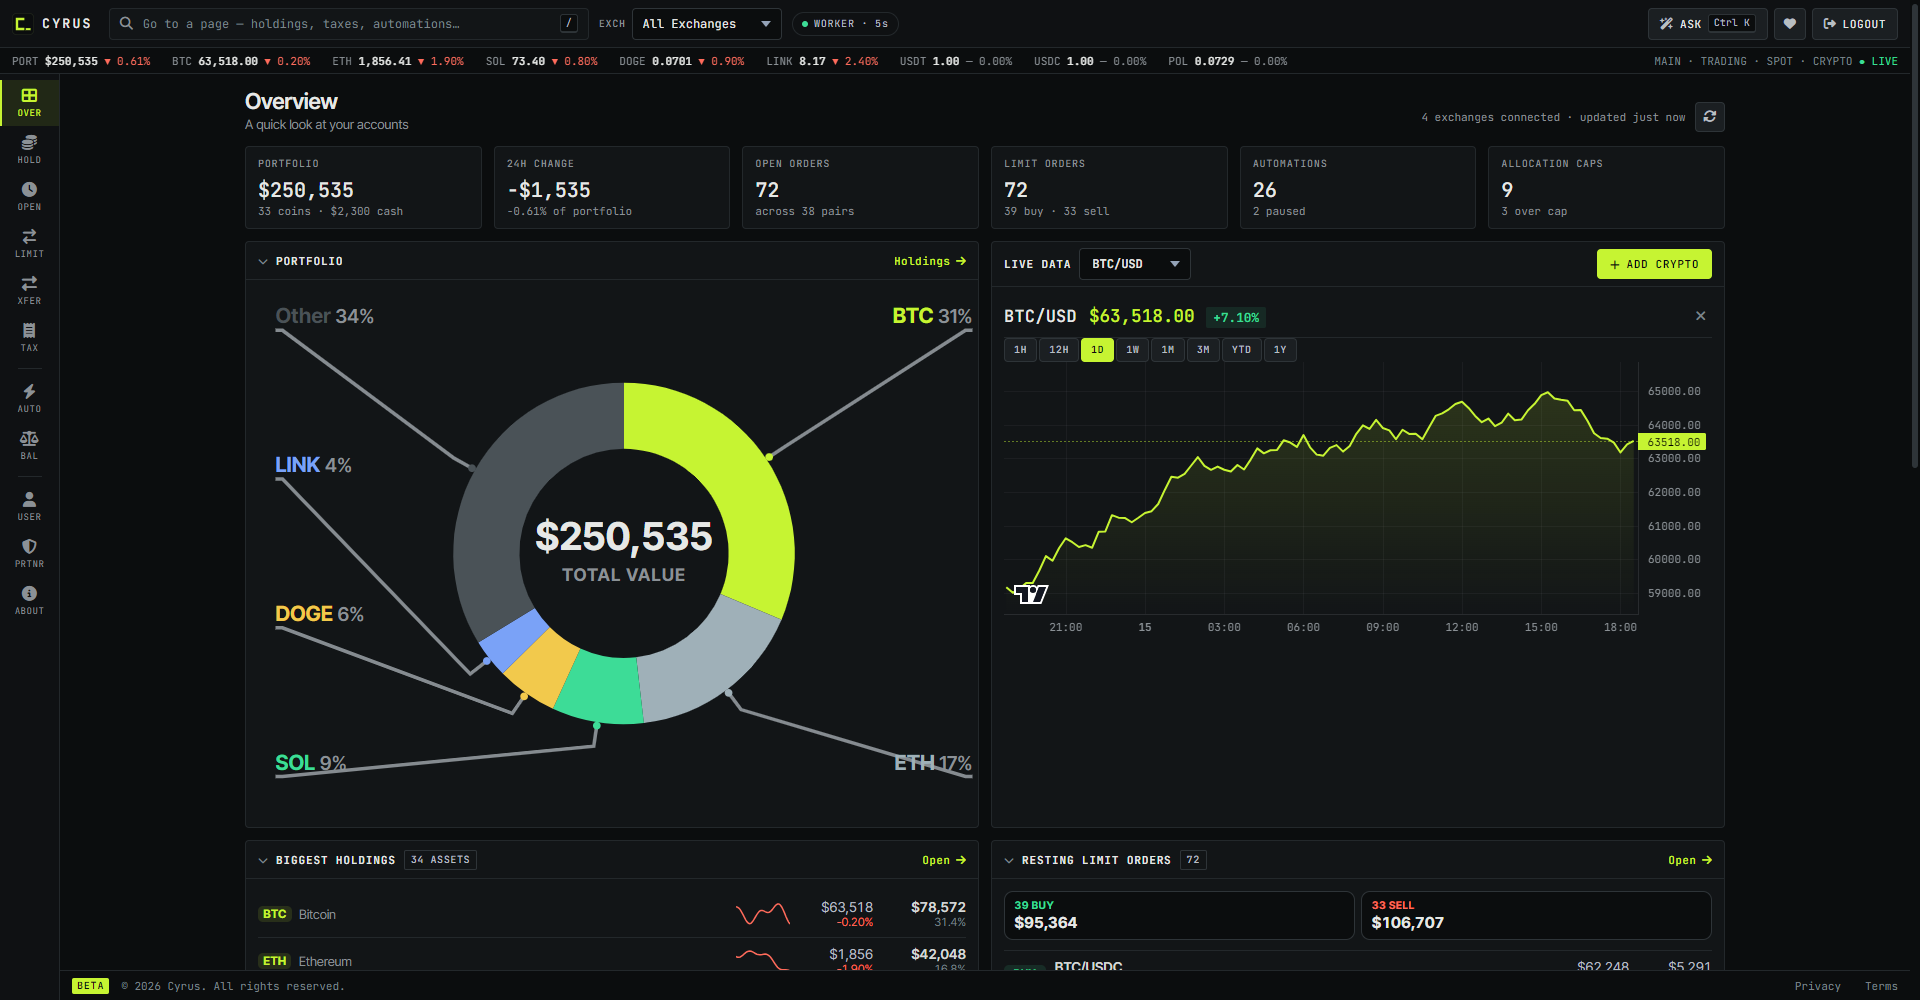
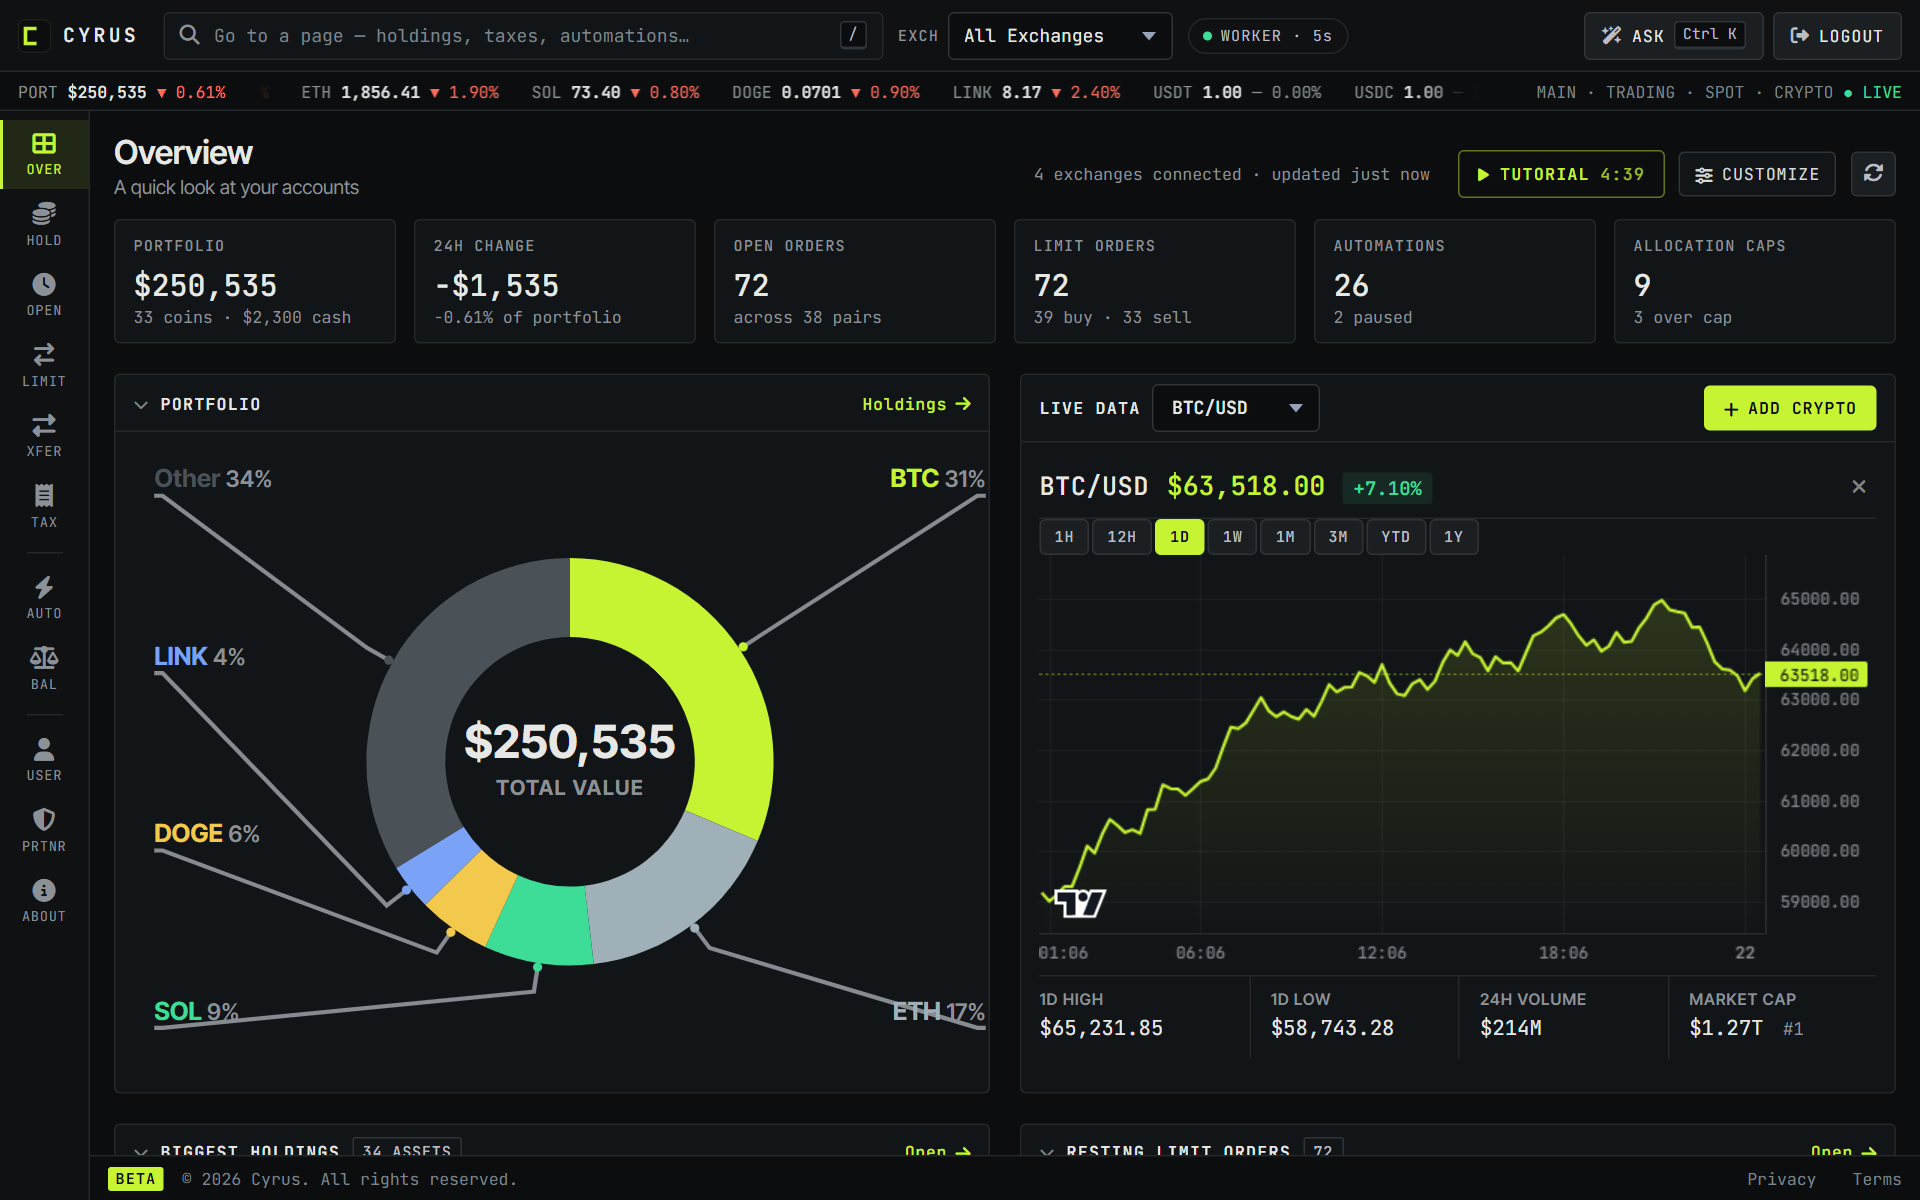
Finish the v1.5.0 page: 9 exchanges, flow-map Open Orders, Live Data charts, encryption copy
New Overview and Open Orders screenshots from demo mode; the stats bar now
counts 9 exchanges; features, gallery and tech stack describe the encrypted
database, the zoomable flow maps and Live Data's any-pair charts and stats.

diff --git a/index.html b/index.html
@@ -2055,7 +2055,7 @@
 <div class="stats-bar">
   <div class="stats-bar-inner">
     <div class="stat-item">
-      <span class="stat-value">5</span>
+      <span class="stat-value">9</span>
       <span class="stat-label">Exchanges</span>
     </div>
     <div class="stat-item">
@@ -2094,7 +2094,7 @@
   <div class="showcase-heading">
     <div class="section-label reveal">A Look Inside</div>
     <h2 class="section-title reveal">Your whole portfolio, at a glance.</h2>
-    <p class="section-desc reveal">One unified dashboard for balances, open orders, live prices, and the automations running quietly in the background — across every connected exchange. Resting limit orders get their own card, split buy against sell, so you can see what you have working before you drill in.</p>
+    <p class="section-desc reveal">One unified dashboard for balances, open orders, live prices, and the automations running quietly in the background — across every connected exchange. Chart any Kraken pair, from BTC/USD to XRP/CAD, with the range's high and low, 24-hour volume and market cap right underneath. A ticker along the top scrolls through every coin you hold, and resting limit orders get their own card, split buy against sell.</p>
   </div>
 
   <div class="app-frame reveal">
@@ -2104,7 +2104,7 @@
       <span class="app-frame-dot app-frame-dot--g"></span>
       <span class="app-frame-label">Cyrus — Overview</span>
     </div>
-    <img src="shot-overview.png" alt="Cyrus overview dashboard: tiles for portfolio value, 24h change, open orders, limit orders, automations and allocation caps, above a portfolio doughnut, a live BTC/USD chart, biggest holdings with seven-day trend lines, and a resting limit orders card split into buys and sells" loading="lazy">
+    <img src="shot-overview.png" alt="Cyrus overview dashboard: tiles for portfolio value, 24h change, open orders, limit orders, automations and allocation caps, above a portfolio doughnut, and a live BTC/USD chart with the day's high, low, 24-hour volume and market cap underneath, above the biggest holdings and resting limit orders cards; a ticker of every holding scrolls along the top" loading="lazy">
   </div>
 </section>
 
@@ -2125,7 +2125,7 @@
     <div class="feature-card">
       <span class="feature-icon">📊</span>
       <div class="feature-title">Real-Time Order Monitoring</div>
-      <p class="feature-desc">Watch your open orders across all connected exchanges with automatic refresh in the background. No browser tabs required.</p>
+      <p class="feature-desc">Watch your open orders across all connected exchanges with automatic refresh in the background, as a flow map of what each order spends and brings in, or as a table. Zoom and drag around the map; it remembers your zoom.</p>
     </div>
     <div class="feature-card">
       <span class="feature-icon">🔗</span>
@@ -2139,18 +2139,18 @@
     </div>
     <div class="feature-card">
       <span class="feature-icon">🗄</span>
-      <div class="feature-title">Fully Local Storage</div>
-      <p class="feature-desc">All data lives in a local SQLite database under your AppData folder. No cloud sync and no account. Your API keys never leave your machine. Only a few things go out at all: coin fundamentals from a public market-data API, which sends nothing but a ticker; and, if you switch the AI assistant on, your portfolio summary to Anthropic under your own key; and, if you opt in, an anonymous usage count (a random install ID, the app version, OS and country, nothing about you or your money). The assistant and the usage count are both off by default.</p>
+      <div class="feature-title">Local &amp; Encrypted</div>
+      <p class="feature-desc">All data lives in a database on your own computer, encrypted with AES-256 under a key unique to your install and locked to your Windows or macOS user account. No cloud sync and no account. Your API keys never leave your machine. Only a few things go out at all: coin fundamentals from a public market-data API, which sends nothing but a ticker; and, if you switch the AI assistant on, your portfolio summary to Anthropic under your own key; and, if you opt in, an anonymous usage count (a random install ID, the app version, OS and country, nothing about you or your money). The assistant and the usage count are both off by default.</p>
+    </div>
+    <div class="feature-card">
+      <span class="feature-icon">📈</span>
+      <div class="feature-title">Live Market Charts</div>
+      <p class="feature-desc">Chart any Kraken pair, priced in its own currency: BTC/USD, ETH/EUR, XRP/CAD, SOL/BTC. Under each chart sit the range's high and low, 24-hour volume and market cap, and a ticker along the top scrolls through every coin you hold.</p>
     </div>
     <div class="feature-card">
       <span class="feature-icon">⏱</span>
       <div class="feature-title">Cooldown Controls</div>
       <p class="feature-desc">Prevent runaway automation with configurable cooldown periods on every rule. Set the minimum time between executions and trade with confidence.</p>
-    </div>
-    <div class="feature-card">
-      <span class="feature-icon">🟢</span>
-      <div class="feature-title">Live Engine Status</div>
-      <p class="feature-desc">A heartbeat on the Automations page shows exactly when your rules were last checked — so you never have to wonder whether automation is actually running.</p>
     </div>
     <div class="feature-card">
       <span class="feature-icon">🖥</span>
@@ -2190,7 +2190,7 @@
     <div class="feature-card">
       <span class="feature-icon">📋</span>
       <div class="feature-title">Explainable Execution Log</div>
-      <p class="feature-desc">Every run is recorded — and so is every skip, with the reason. Below threshold, under an exchange minimum, cooling down: nothing happens without an explanation.</p>
+      <p class="feature-desc">Every run is recorded — and so is every skip, with the reason. Below threshold, under an exchange minimum, cooling down: nothing happens without an explanation. A heartbeat on the Automations page shows when your rules were last checked.</p>
     </div>
     <div class="feature-card">
       <span class="feature-icon">🎬</span>
@@ -2224,7 +2224,7 @@
       <div class="gallery-copy">
         <div class="gallery-eyebrow">Automation Rules</div>
         <h3 class="gallery-title">Set your rules once. Cyrus does the rest.</h3>
-        <p class="gallery-desc">Each rule pairs a trigger — an order filling, a balance crossing a threshold, a price target, or a coin outgrowing its share of your portfolio — with an action like converting an asset or withdrawing to a saved address. A flow map shows where your money goes, from the coins being sent through each rule to where they end up; click a rule to light up its path and edit or pause it. Every rule's status and last run sit in one place, with cooldowns to keep automation in check.</p>
+        <p class="gallery-desc">Each rule pairs a trigger — an order filling, a balance crossing a threshold, a price target, or a coin outgrowing its share of your portfolio — with an action like converting an asset or withdrawing to a saved address. A flow map shows where your money goes, from the coins being sent through each rule to where they end up; click a rule to light up its path and edit or pause it, and zoom or drag to move around a big one. Every rule's status and last run sit in one place, with cooldowns to keep automation in check.</p>
       </div>
     </div>
 
@@ -2271,12 +2271,12 @@
           <span class="app-frame-dot app-frame-dot--g"></span>
           <span class="app-frame-label">Cyrus — Open Orders</span>
         </div>
-        <img src="shot-orders.png" alt="Cyrus open orders table: 72 orders across four exchanges with pair, side, type, price, volume, filled amount and status" loading="lazy">
+        <img src="shot-orders.png" alt="Cyrus open orders flow map at 80% zoom: coins on the left feed sell orders into USD, which feeds buy orders for SOL, BTC, ETH and others, colour-coded buy and sell, with zoom controls and a Flow / Table switch" loading="lazy">
       </div>
       <div class="gallery-copy">
         <div class="gallery-eyebrow">Live Monitoring</div>
         <h3 class="gallery-title">Every open order, every exchange — live.</h3>
-        <p class="gallery-desc">Watch all your open orders refresh automatically in the background, visualized as a clean graph or a sortable table. No browser tabs, no manual refreshing — just a real-time view of what's working across Kraken, Coinbase, Binance, Gemini, Robinhood, OKX, KuCoin, Crypto.com and Gate.io.</p>
+        <p class="gallery-desc">Watch all your open orders refresh automatically in the background. The flow map reads left to right: the coin each order spends, the order itself, and the coin it brings in, with what you'd receive at your prices. Click an order to read it in plain English, zoom or drag to move around, or switch to a sortable table. No browser tabs, no manual refreshing — just a real-time view of what's working across Kraken, Coinbase, Binance, Gemini, Robinhood, OKX, KuCoin, Crypto.com and Gate.io.</p>
       </div>
     </div>
 
@@ -2310,7 +2310,7 @@
       <div class="gallery-copy">
         <div class="gallery-eyebrow">Exchange Connections</div>
         <h3 class="gallery-title">Connect securely, stay in control.</h3>
-        <p class="gallery-desc">Add an exchange in seconds and test the connection before you trade. Your API keys are encrypted at rest and stored locally on your device — never on a server. Toggle native desktop notifications so you know the moment a rule fires.</p>
+        <p class="gallery-desc">Add an exchange in seconds and test the connection before you trade. Your API keys are encrypted twice, on their own and inside the encrypted database, and stored only on your device — never on a server. Toggle native desktop notifications so you know the moment a rule fires.</p>
       </div>
     </div>
 
@@ -2691,7 +2691,7 @@
     <div class="tech-tag"><span class="tech-dot" style="background:#47848F"></span>Electron</div>
     <div class="tech-tag"><span class="tech-dot" style="background:#3776AB"></span>Python 3.11+</div>
     <div class="tech-tag"><span class="tech-dot" style="background:#000000; border:1px solid #555"></span>Flask</div>
-    <div class="tech-tag"><span class="tech-dot" style="background:#003B57"></span>SQLite</div>
+    <div class="tech-tag"><span class="tech-dot" style="background:#003B57"></span>SQLite + SQLCipher</div>
     <div class="tech-tag"><span class="tech-dot" style="background:#00D084"></span>CCXT</div>
     <div class="tech-tag"><span class="tech-dot" style="background:#FF6B35"></span>PyInstaller</div>
     <div class="tech-tag"><span class="tech-dot" style="background:#8DD6F9"></span>electron-builder</div>
